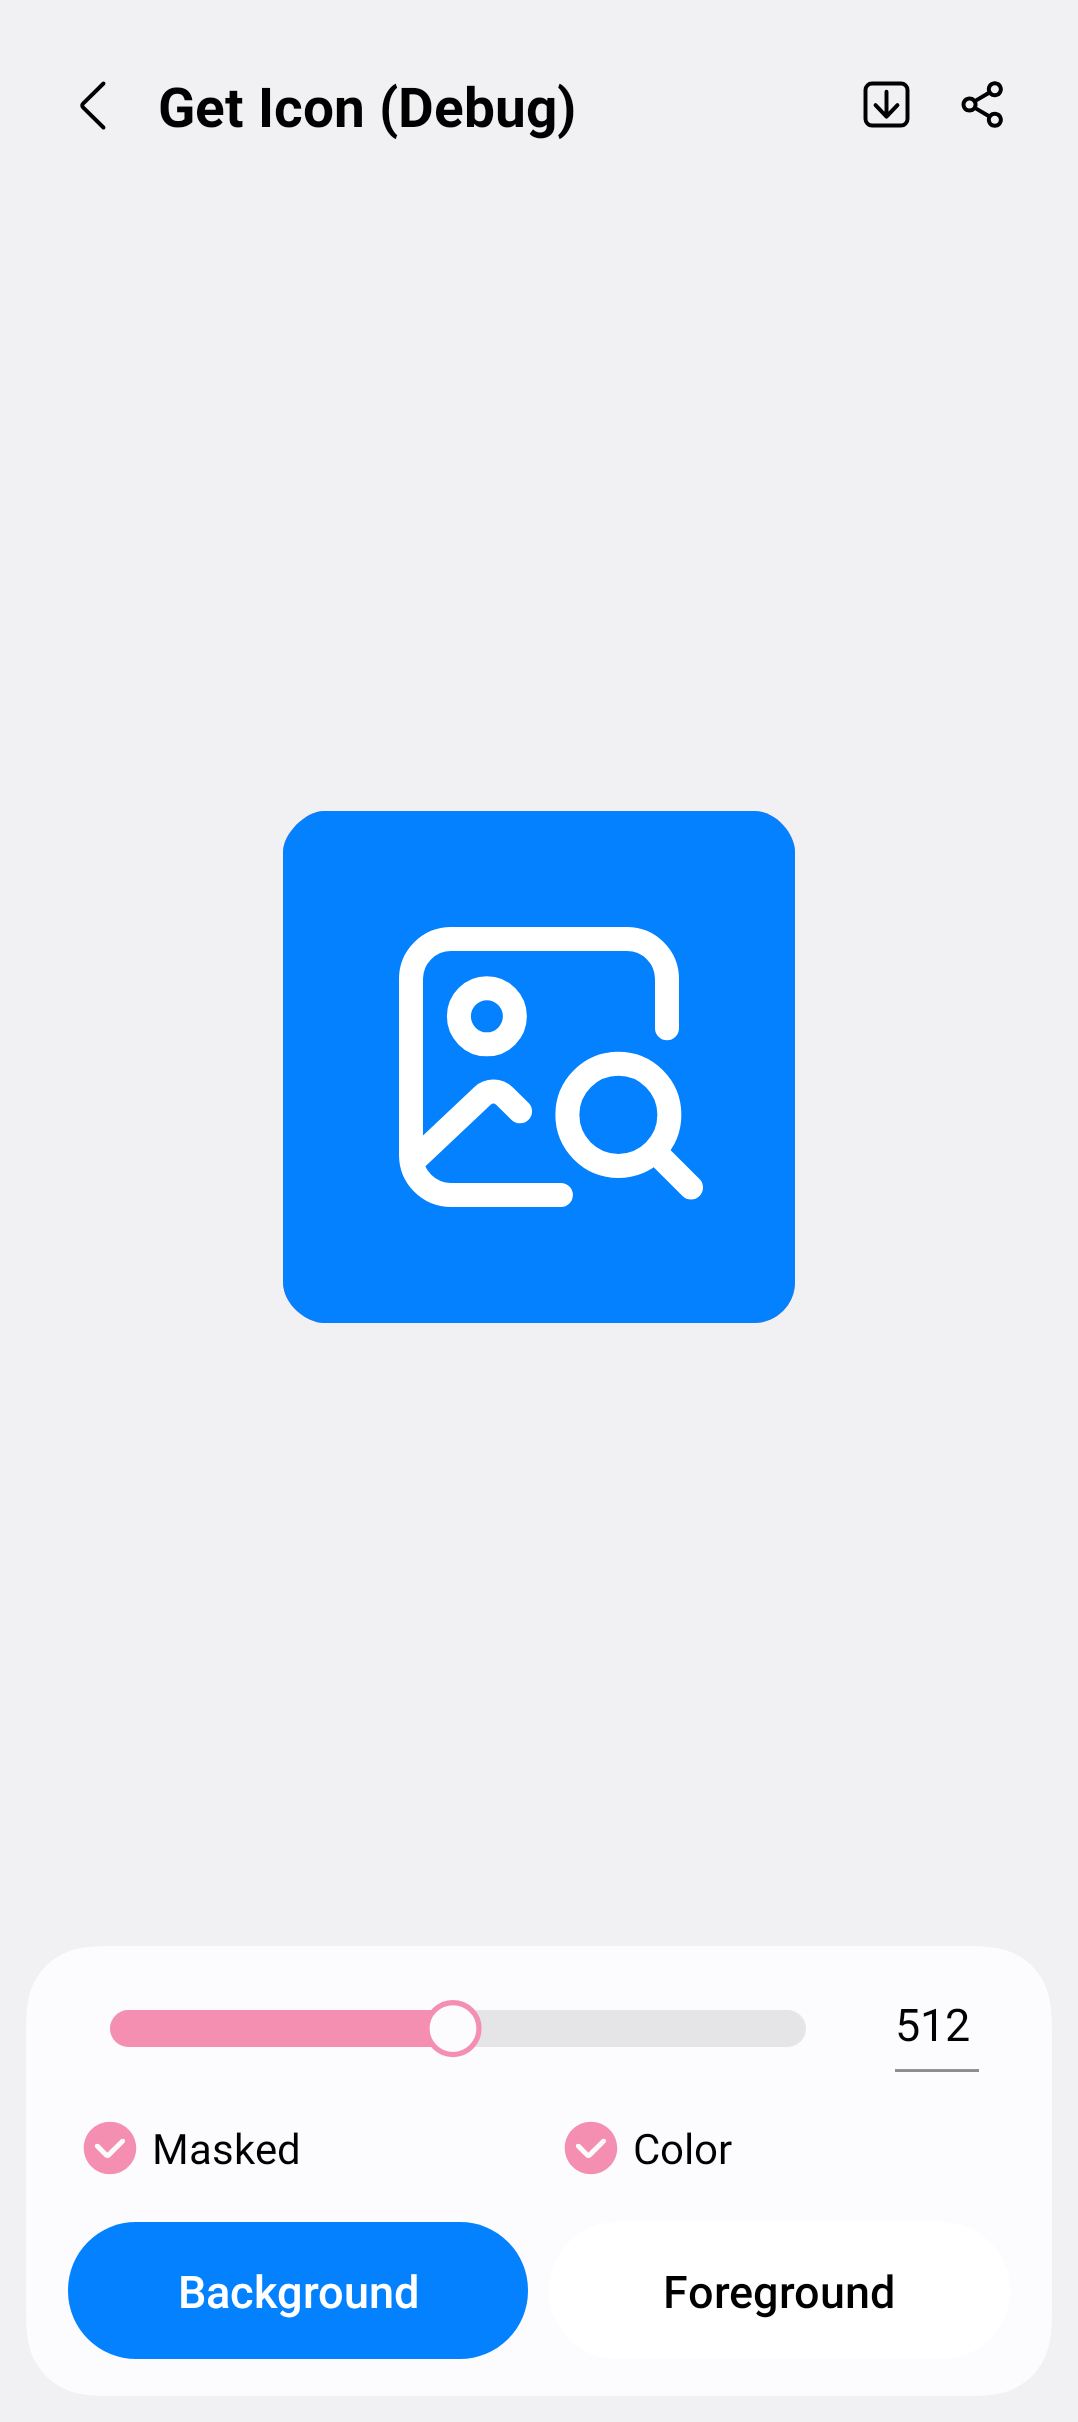
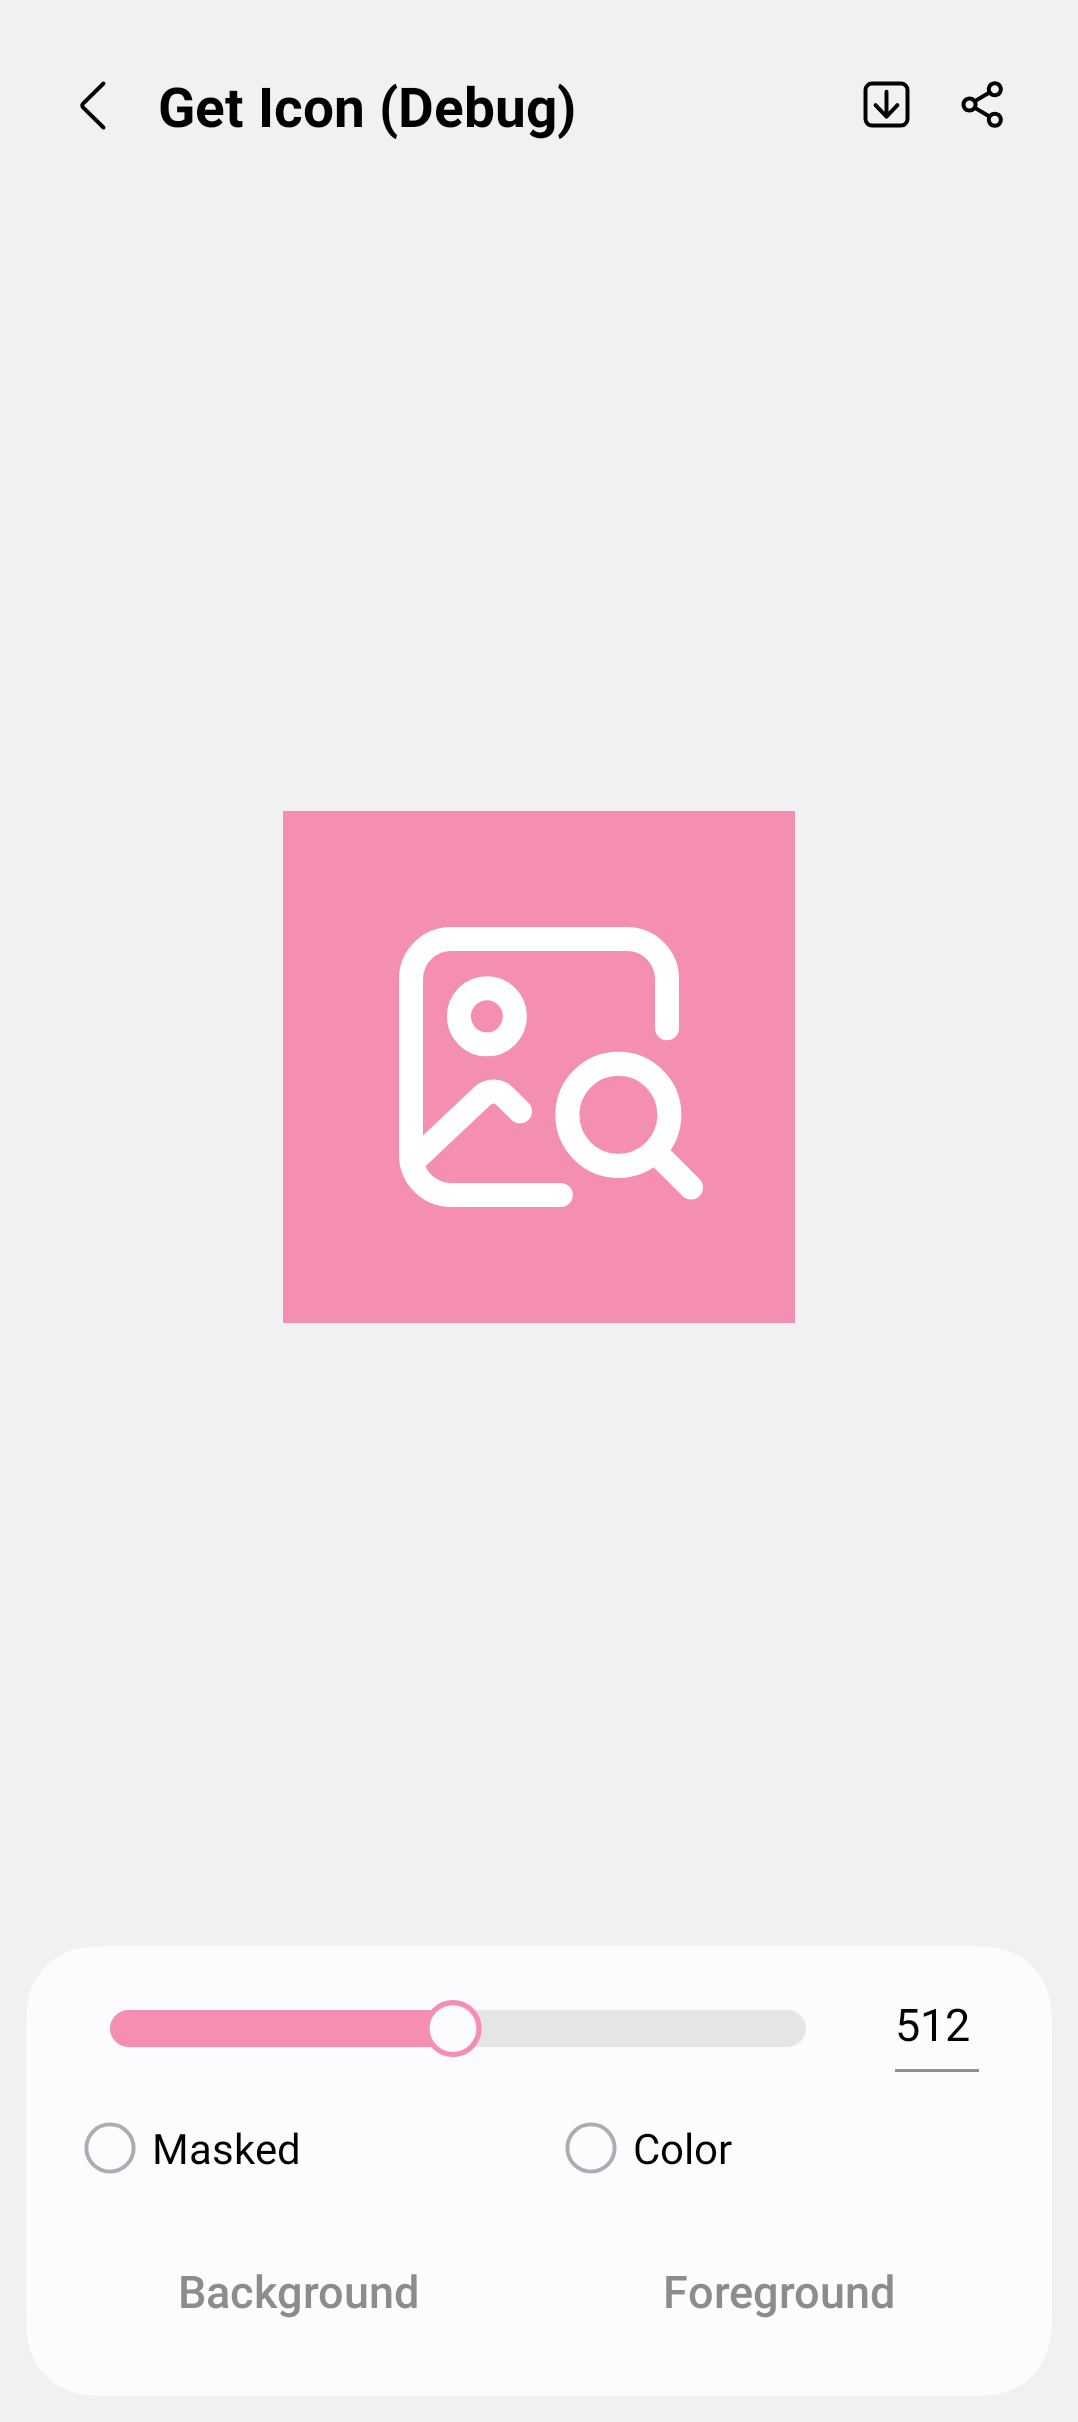
test(screenshot): fix state isolation and variant rendering
DataStore is @user and its file persists across tests in the
same Robolectric JVM run. Click-based variants also suffered from
async timing: viewModelScope coroutines on Dispatchers.Default
finish after idle(), so the screenshot captured pre-click state.

Fix: pre-set DataStore via UpdateUserSettingsUseCase before
launching each activity, eliminating both issues. Added
UserSettingsEntryPoint to the production Hilt component so it
is accessible from Robolectric tests that use the production
application (not @user).

Regenerated icon_color_enabled.png and icon_mask_disabled.png
with the correct states.

diff --git a/app/src/test/java/de/lemke/geticon/ui/IconActivityScreenshotTest.kt b/app/src/test/java/de/lemke/geticon/ui/IconActivityScreenshotTest.kt
@@ -18,12 +18,15 @@ package de.lemke.geticon.ui
 
 import android.content.Intent
 import android.os.Looper
-import android.widget.CompoundButton
 import androidx.test.core.app.ActivityScenario
 import androidx.test.core.app.ApplicationProvider
 import com.github.takahirom.roborazzi.captureRoboImage
+import dagger.hilt.android.EntryPointAccessors
 import de.lemke.geticon.App
-import de.lemke.geticon.R
+import de.lemke.geticon.data.UserSettings
+import de.lemke.geticon.di.UserSettingsEntryPoint
+import kotlinx.coroutines.runBlocking
+import org.junit.Before
 import org.junit.Test
 import org.junit.runner.RunWith
 import org.robolectric.RobolectricTestRunner
@@ -35,6 +38,28 @@ import org.robolectric.annotation.GraphicsMode
 @Config(application = App::class, sdk = [36])
 @GraphicsMode(GraphicsMode.Mode.NATIVE)
 class IconActivityScreenshotTest {
+    private fun updateUserSettings() =
+        EntryPointAccessors
+            .fromApplication(
+                ApplicationProvider.getApplicationContext(),
+                UserSettingsEntryPoint::class.java,
+            ).updateUserSettings()
+
+    @Before
+    fun resetSettings() {
+        runBlocking {
+            updateUserSettings().invoke {
+                UserSettings(
+                    iconSize = UserSettings.DEFAULT_ICON_SIZE,
+                    maskEnabled = true,
+                    colorEnabled = false,
+                    recentForegroundColors = listOf(UserSettings.DEFAULT_FOREGROUND_COLOR),
+                    recentBackgroundColors = listOf(UserSettings.DEFAULT_BACKGROUND_COLOR),
+                )
+            }
+        }
+    }
+
     private fun launchIconActivity(): ActivityScenario<IconActivity> {
         val context = ApplicationProvider.getApplicationContext<App>()
         val appInfo = context.packageManager.getApplicationInfo(context.packageName, 0)
@@ -56,11 +81,8 @@ class IconActivityScreenshotTest {
 
     @Test
     fun iconActivity_maskDisabled() {
+        runBlocking { updateUserSettings().invoke { it.copy(maskEnabled = false) } }
         launchIconActivity().use { scenario ->
-            shadowOf(Looper.getMainLooper()).idle()
-            scenario.onActivity { activity ->
-                requireNotNull(activity.findViewById<CompoundButton>(R.id.masked_checkbox)).performClick()
-            }
             shadowOf(Looper.getMainLooper()).idle()
             scenario.onActivity { activity ->
                 activity.window.decorView.captureRoboImage("icon_mask_disabled.png")
@@ -70,11 +92,8 @@ class IconActivityScreenshotTest {
 
     @Test
     fun iconActivity_colorEnabled() {
+        runBlocking { updateUserSettings().invoke { it.copy(colorEnabled = true) } }
         launchIconActivity().use { scenario ->
-            shadowOf(Looper.getMainLooper()).idle()
-            scenario.onActivity { activity ->
-                requireNotNull(activity.findViewById<CompoundButton>(R.id.color_checkbox)).performClick()
-            }
             shadowOf(Looper.getMainLooper()).idle()
             scenario.onActivity { activity ->
                 activity.window.decorView.captureRoboImage("icon_color_enabled.png")

diff --git a/app/src/main/java/de/lemke/geticon/di/UserSettingsEntryPoint.kt b/app/src/main/java/de/lemke/geticon/di/UserSettingsEntryPoint.kt
@@ -1,0 +1,28 @@
+/*
+ * Copyright 2022-2026 Leonard Lemke
+ *
+ * Licensed under the Apache License, Version 2.0 (the "License");
+ * you may not use this file except in compliance with the License.
+ * You may obtain a copy of the License at
+ *
+ *     https://www.apache.org/licenses/LICENSE-2.0
+ *
+ * Unless required by applicable law or agreed to in writing, software
+ * distributed under the License is distributed on an "AS IS" BASIS,
+ * WITHOUT WARRANTIES OR CONDITIONS OF ANY KIND, either express or implied.
+ * See the License for the specific language governing permissions and
+ * limitations under the License.
+ */
+
+package de.lemke.geticon.di
+
+import dagger.hilt.EntryPoint
+import dagger.hilt.InstallIn
+import dagger.hilt.components.SingletonComponent
+import de.lemke.geticon.domain.UpdateUserSettingsUseCase
+
+@EntryPoint
+@InstallIn(SingletonComponent::class)
+interface UserSettingsEntryPoint {
+    fun updateUserSettings(): UpdateUserSettingsUseCase
+}